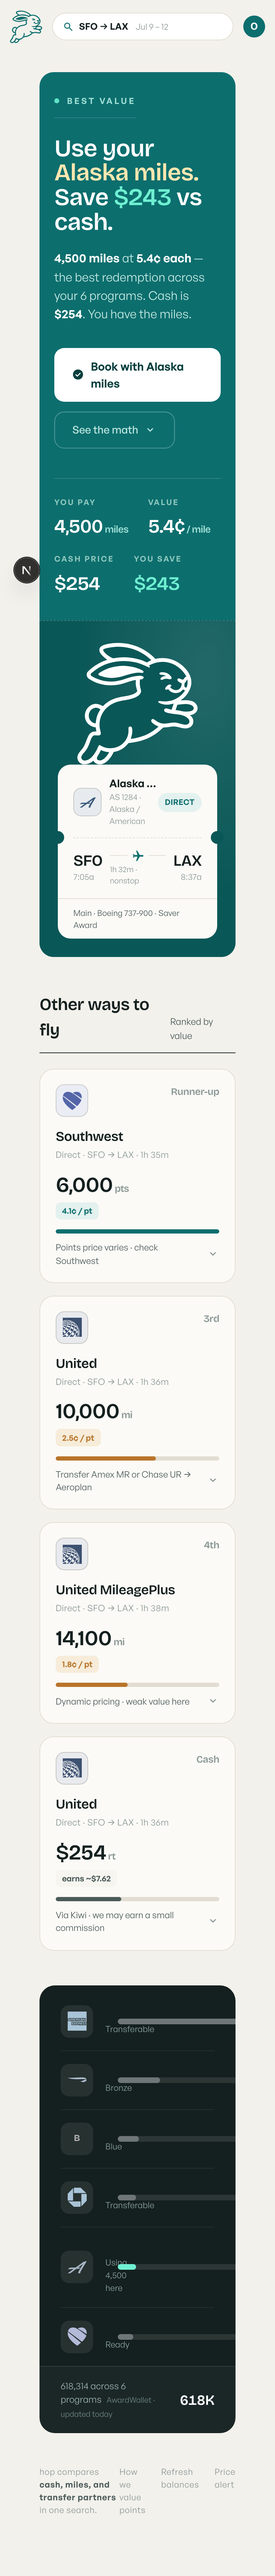
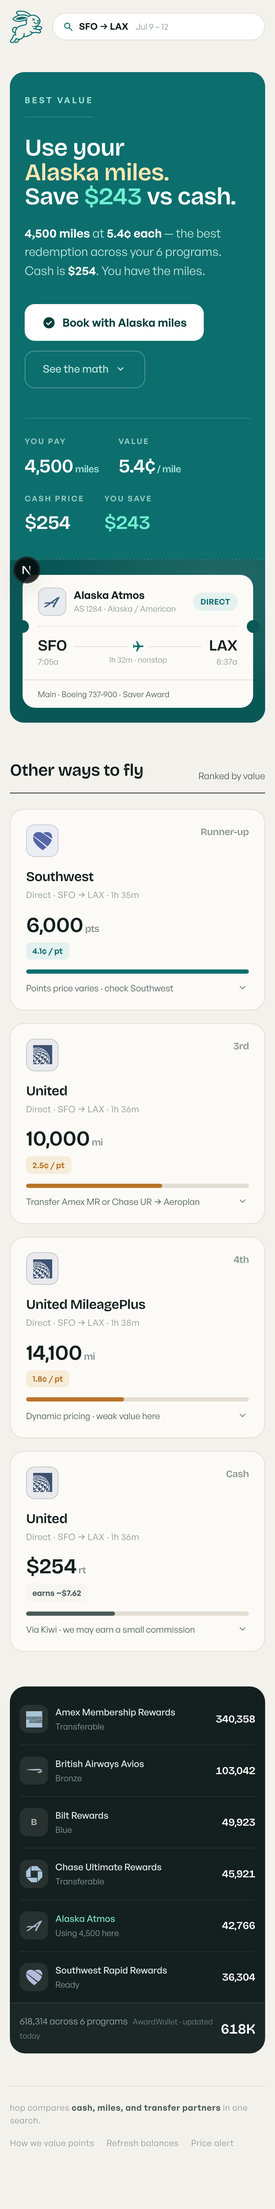
feat: full-width layout + mobile polish (wallet, footer, stable scroll search)
- full-width header + content (removed 1440 caps per brief)
- removed 'Best value' dot
- search stays full-size on scroll (stable logo↔search gap, Who field always visible)
- mobile: hide wordmark + avatar + hero bunny + RouteBar; responsive wallet grid (no squish), stacked footer, ticket top spacing

diff --git a/hopapp/components/TopNav.tsx b/hopapp/components/TopNav.tsx
@@ -125,7 +125,7 @@ export default function TopNav({
           transition: `height ${DUR} ${EASE}, background ${DUR} ${EASE}, border-color ${DUR} ${EASE}`,
         }}
       >
-        <div className="mx-auto flex h-full max-w-[1440px] items-center gap-4 px-4 sm:gap-6 sm:px-8 lg:gap-9 lg:px-16">
+        <div className="flex h-full items-center gap-4 px-4 sm:gap-6 sm:px-8 lg:gap-9 lg:px-16">
           {/* logo — left, scales down on collapse */}
           <div
             className="flex flex-shrink-0 items-center gap-[11px]"
@@ -151,59 +151,37 @@ export default function TopNav({
             <span className="ml-1 truncate text-[12px] text-text3">{vDates}</span>
           </button>
 
-          {/* DESKTOP search — grouped next to the logo; contracts to a pill on scroll */}
+          {/* DESKTOP search — full form, STABLE on scroll so the logo↔search gap
+              never shifts and all fields (incl. Who) stay visible. */}
           <div className="hidden min-w-0 flex-shrink-0 md:flex">
             <form
               className="flex items-center rounded-full border border-border bg-surface"
               style={{
-                gap: c ? 10 : 16,
-                paddingLeft: c ? 18 : 22,
-                paddingRight: c ? 6 : 12,
-                paddingTop: c ? 6 : 10,
-                paddingBottom: c ? 6 : 10,
-                transition: `gap ${DUR} ${EASE}, padding ${DUR} ${EASE}`,
+                gap: 16,
+                paddingLeft: 22,
+                paddingRight: 12,
+                paddingTop: 10,
+                paddingBottom: 10,
               }}
             >
-              <Field label="From" value={c ? fromCode : vFrom} onChange={setFrom} width={c ? 'w-[34px]' : 'w-[112px]'} collapsed={c} />
+              <Field label="From" value={vFrom} onChange={setFrom} width="w-[112px]" collapsed={false} />
               <span className="flex-shrink-0 text-brand">
-                <Icon name="swap_horiz" size={c ? 16 : 20} />
+                <Icon name="swap_horiz" size={20} />
               </span>
-              <Field label="To" value={c ? toCode : vTo} onChange={setTo} width={c ? 'w-[34px]' : 'w-[96px]'} collapsed={c} />
+              <Field label="To" value={vTo} onChange={setTo} width="w-[96px]" collapsed={false} />
 
-              {/* divider + Dates: collapse the divider; Dates stays in pill */}
-              <span
-                className="w-px flex-shrink-0 bg-border"
-                style={{ height: c ? 18 : 26, transition: `height ${DUR} ${EASE}` }}
-              />
-              <Field label="Dates" value={vDates} onChange={setDates} width={c ? 'w-[72px]' : 'w-[78px]'} collapsed={c} />
+              <span className="h-[26px] w-px flex-shrink-0 bg-border" />
+              <Field label="Dates" value={vDates} onChange={setDates} width="w-[78px]" collapsed={false} />
 
-              {/* Who — hidden entirely when collapsed (width + opacity to 0) */}
-              <span
-                className="w-px flex-shrink-0 overflow-hidden bg-border"
-                style={{
-                  height: c ? 0 : 26,
-                  opacity: c ? 0 : 1,
-                  transition: `height ${DUR} ${EASE}, opacity ${DUR} ${EASE}`,
-                }}
-              />
-              <div
-                className="overflow-hidden"
-                style={{
-                  maxWidth: c ? 0 : 90,
-                  opacity: c ? 0 : 1,
-                  transition: `max-width ${DUR} ${EASE}, opacity ${DUR} ${EASE}`,
-                }}
-              >
-                <Field label="Who" value={vWho} onChange={setWho} width="w-[60px]" collapsed={c} />
-              </div>
+              <span className="h-[26px] w-px flex-shrink-0 bg-border" />
+              <Field label="Who" value={vWho} onChange={setWho} width="w-[60px]" collapsed={false} />
 
               <button
                 type="submit"
                 aria-label="Search"
-                className="grid flex-shrink-0 place-items-center rounded-full bg-brand text-white transition-colors hover:bg-brand-deep"
-                style={{ width: c ? 32 : 40, height: c ? 32 : 40, transition: `width ${DUR} ${EASE}, height ${DUR} ${EASE}` }}
+                className="grid h-10 w-10 flex-shrink-0 place-items-center rounded-full bg-brand text-white transition-colors hover:bg-brand-deep"
               >
-                <Icon name="search" size={c ? 15 : 19} />
+                <Icon name="search" size={19} />
               </button>
             </form>
           </div>
@@ -211,9 +189,9 @@ export default function TopNav({
           {/* spacer pushes the account to the far right (desktop only) */}
           <div className="hidden flex-1 md:block" />
 
-          {/* account — right, scales down on collapse */}
+          {/* account — right, scales down on collapse; hidden on mobile to save space */}
           <div
-            className="flex flex-shrink-0 items-center"
+            className="hidden flex-shrink-0 items-center sm:flex"
             style={{ transform: c ? 'scale(0.86)' : 'scale(1)', transformOrigin: 'right center', transition: `transform ${DUR} ${EASE}` }}
           >
             <div className="grid h-9 w-9 place-items-center rounded-full bg-brand font-display text-[15px] font-bold text-white sm:h-[42px] sm:w-[42px] sm:text-[16px]">

diff --git a/hopapp/components/PointsPanel.tsx b/hopapp/components/PointsPanel.tsx
@@ -37,32 +37,31 @@ export default function PointsPanel({ balances, pick }: PointsPanelProps) {
   return (
     <section className="overflow-hidden rounded-[22px] text-[#eef3f1]" style={{ background: 'var(--color-text)' }}>
       {/* no restating header — the balances + total speak for themselves */}
-      <div className="px-[30px] pt-[10px]">
+      <div className="px-4 pt-[10px] sm:px-[30px]">
         {balances.map((b, i) => {
           const active = isActive(b, pick)
           const pct = Math.max(5, Math.round((b.balance / max) * 100))
           return (
             <div
               key={b.code + b.program}
-              className={`grid items-center gap-5 py-[18px] ${i > 0 ? 'border-t border-white/[0.07]' : ''}`}
-              style={{ gridTemplateColumns: '46px 1fr 200px 116px' }}
+              className={`grid items-center gap-3 py-[16px] sm:gap-5 sm:py-[18px] [grid-template-columns:40px_1fr_auto] lg:[grid-template-columns:46px_1fr_200px_116px] ${i > 0 ? 'border-t border-white/[0.07]' : ''}`}
             >
-              <BrandIcon code={b.code} name={b.program} size={46} surface="dark" />
+              <BrandIcon code={b.code} name={b.program} size={40} surface="dark" />
 
               <div className="min-w-0">
                 <div
-                  className="truncate text-[14px] font-medium"
+                  className="truncate text-[13px] font-medium sm:text-[14px]"
                   style={{ color: active ? '#7be0c6' : '#e6edeb' }}
                 >
                   {b.program}
                 </div>
-                <div className="mt-[2px] text-[12px] text-[#8aa39e]">
+                <div className="mt-[2px] truncate text-[12px] text-[#8aa39e]">
                   {active && spend != null ? `Using ${spend.toLocaleString()} here` : b.status}
                 </div>
               </div>
 
-              {/* value bar */}
-              <div className="h-[8px] overflow-hidden rounded-full bg-white/10">
+              {/* value bar — desktop only (no room on mobile) */}
+              <div className="hidden h-[8px] overflow-hidden rounded-full bg-white/10 lg:block">
                 <span
                   className="block h-full rounded-full"
                   style={{
@@ -72,7 +71,7 @@ export default function PointsPanel({ balances, pick }: PointsPanelProps) {
                 />
               </div>
 
-              <div className="text-right font-display text-[16px] font-semibold tabular-nums text-white">
+              <div className="text-right font-display text-[15px] font-semibold tabular-nums text-white sm:text-[16px]">
                 {b.balance.toLocaleString()}
               </div>
             </div>
@@ -81,7 +80,7 @@ export default function PointsPanel({ balances, pick }: PointsPanelProps) {
       </div>
 
       {/* footer total — with a low-key sync line that earns its place */}
-      <div className="flex items-center justify-between border-t border-white/10 bg-white/[0.03] px-[30px] py-[18px]">
+      <div className="flex items-center justify-between border-t border-white/10 bg-white/[0.03] px-4 py-[16px] sm:px-[30px] sm:py-[18px]">
         <span className="text-[13px] text-[#9fb5b0]">
           {total.toLocaleString()} across {balances.length} programs
           <span className="ml-2 text-[11px] text-[#6f8782]">AwardWallet · updated today</span>

diff --git a/hopapp/components/VerdictRail.tsx b/hopapp/components/VerdictRail.tsx
@@ -40,8 +40,7 @@ export default function VerdictRail({ result }: VerdictRailProps) {
     >
       {/* LEFT — the verdict */}
       <div className="px-6 pb-9 pt-8 sm:px-10 lg:px-[52px] lg:pb-[46px] lg:pt-12">
-        <span className="mb-[26px] inline-flex items-center gap-[11px] border-b border-white/15 pb-4 text-[12px] font-semibold uppercase tracking-[0.22em] text-[#9fe0d6]">
-          <span className="h-[7px] w-[7px] rounded-full bg-[#5fe3c8]" />
+        <span className="mb-[26px] inline-flex items-center border-b border-white/15 pb-4 text-[12px] font-semibold uppercase tracking-[0.22em] text-[#9fe0d6]">
           Best value
         </span>
 
@@ -121,10 +120,9 @@ export default function VerdictRail({ result }: VerdictRailProps) {
             'radial-gradient(120% 120% at 85% 15%, rgba(255,255,255,.10), rgba(255,255,255,0) 55%), var(--color-brand-deep)',
         }}
       >
-        <div className="relative grid flex-1 place-items-center overflow-hidden pt-9">
-          <span className="hop-float">
-            <Logo size={172} carve="var(--color-brand-deep)" className="text-white" />
-          </span>
+        {/* big bunny illustration — desktop only (redundant with header on mobile) */}
+        <div className="relative hidden flex-1 place-items-center overflow-hidden pt-9 lg:grid">
+          <Logo size={172} carve="var(--color-brand-deep)" className="text-white" />
         </div>
 
         {pick ? <PickPass pick={pick} /> : null}
@@ -182,7 +180,7 @@ function PickPass({ pick }: { pick: FlightOption }) {
   const details = [pick.cabin, pick.aircraft, pick.fareBrand].filter(Boolean)
 
   return (
-    <div className="relative mx-[26px] mb-[26px] rounded-[18px] bg-paper text-text">
+    <div className="relative mx-5 mb-6 mt-6 rounded-[18px] bg-paper text-text sm:mx-[26px] sm:mb-[26px] lg:mt-0">
       {/* header band: airline + flight no + Direct tag */}
       <div className="flex items-center justify-between px-[22px] pb-[14px] pt-[18px]">
         <div className="flex min-w-0 items-center gap-[11px]">

diff --git a/hopapp/app/page.tsx b/hopapp/app/page.tsx
@@ -41,12 +41,12 @@ export default async function Home() {
         <PointsPanel balances={result.balances} pick={result.pick} />
       </div>
 
-      <footer className="mt-[46px] flex items-center justify-between text-[12px] tracking-[0.04em] text-text3">
+      <footer className="mt-[46px] flex flex-col gap-4 border-t border-border pt-6 text-[12px] tracking-[0.04em] text-text3 sm:flex-row sm:items-center sm:justify-between sm:border-t-0 sm:pt-0">
         <div>
           hop compares <b className="font-semibold text-text2">cash, miles, and transfer partners</b>{' '}
           in one search.
         </div>
-        <div className="flex gap-[22px]">
+        <div className="flex flex-wrap gap-x-5 gap-y-2 sm:gap-[22px]">
           <span>How we value points</span>
           <span>Refresh balances</span>
           <span>Price alert</span>

diff --git a/hopapp/components/AppShell.tsx b/hopapp/components/AppShell.tsx
@@ -12,7 +12,7 @@ export default function AppShell({ children, ...nav }: AppShellProps) {
   return (
     <div className="relative">
       <TopNav {...nav} />
-      <div className="mx-auto max-w-[1440px] px-16 pb-24">{children}</div>
+      <div className="px-4 pb-24 sm:px-8 lg:px-16">{children}</div>
     </div>
   )
 }
